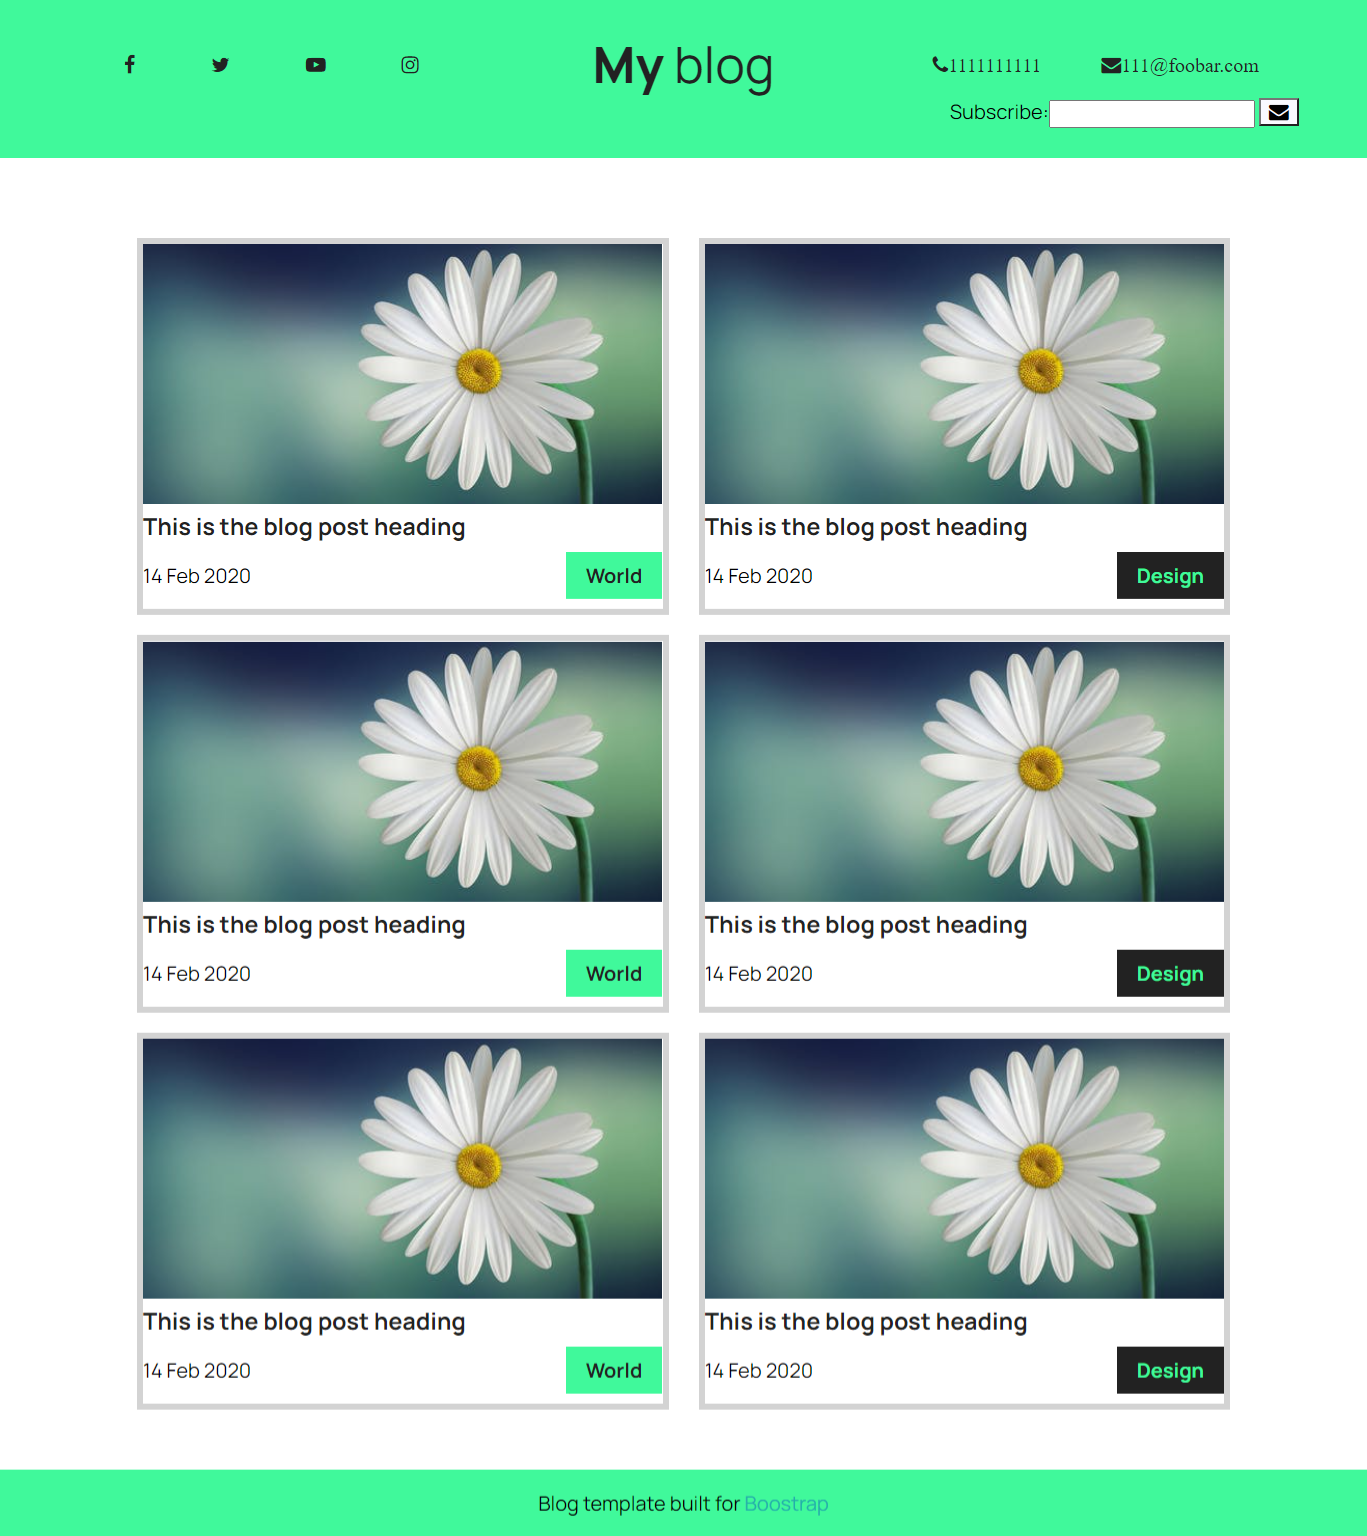
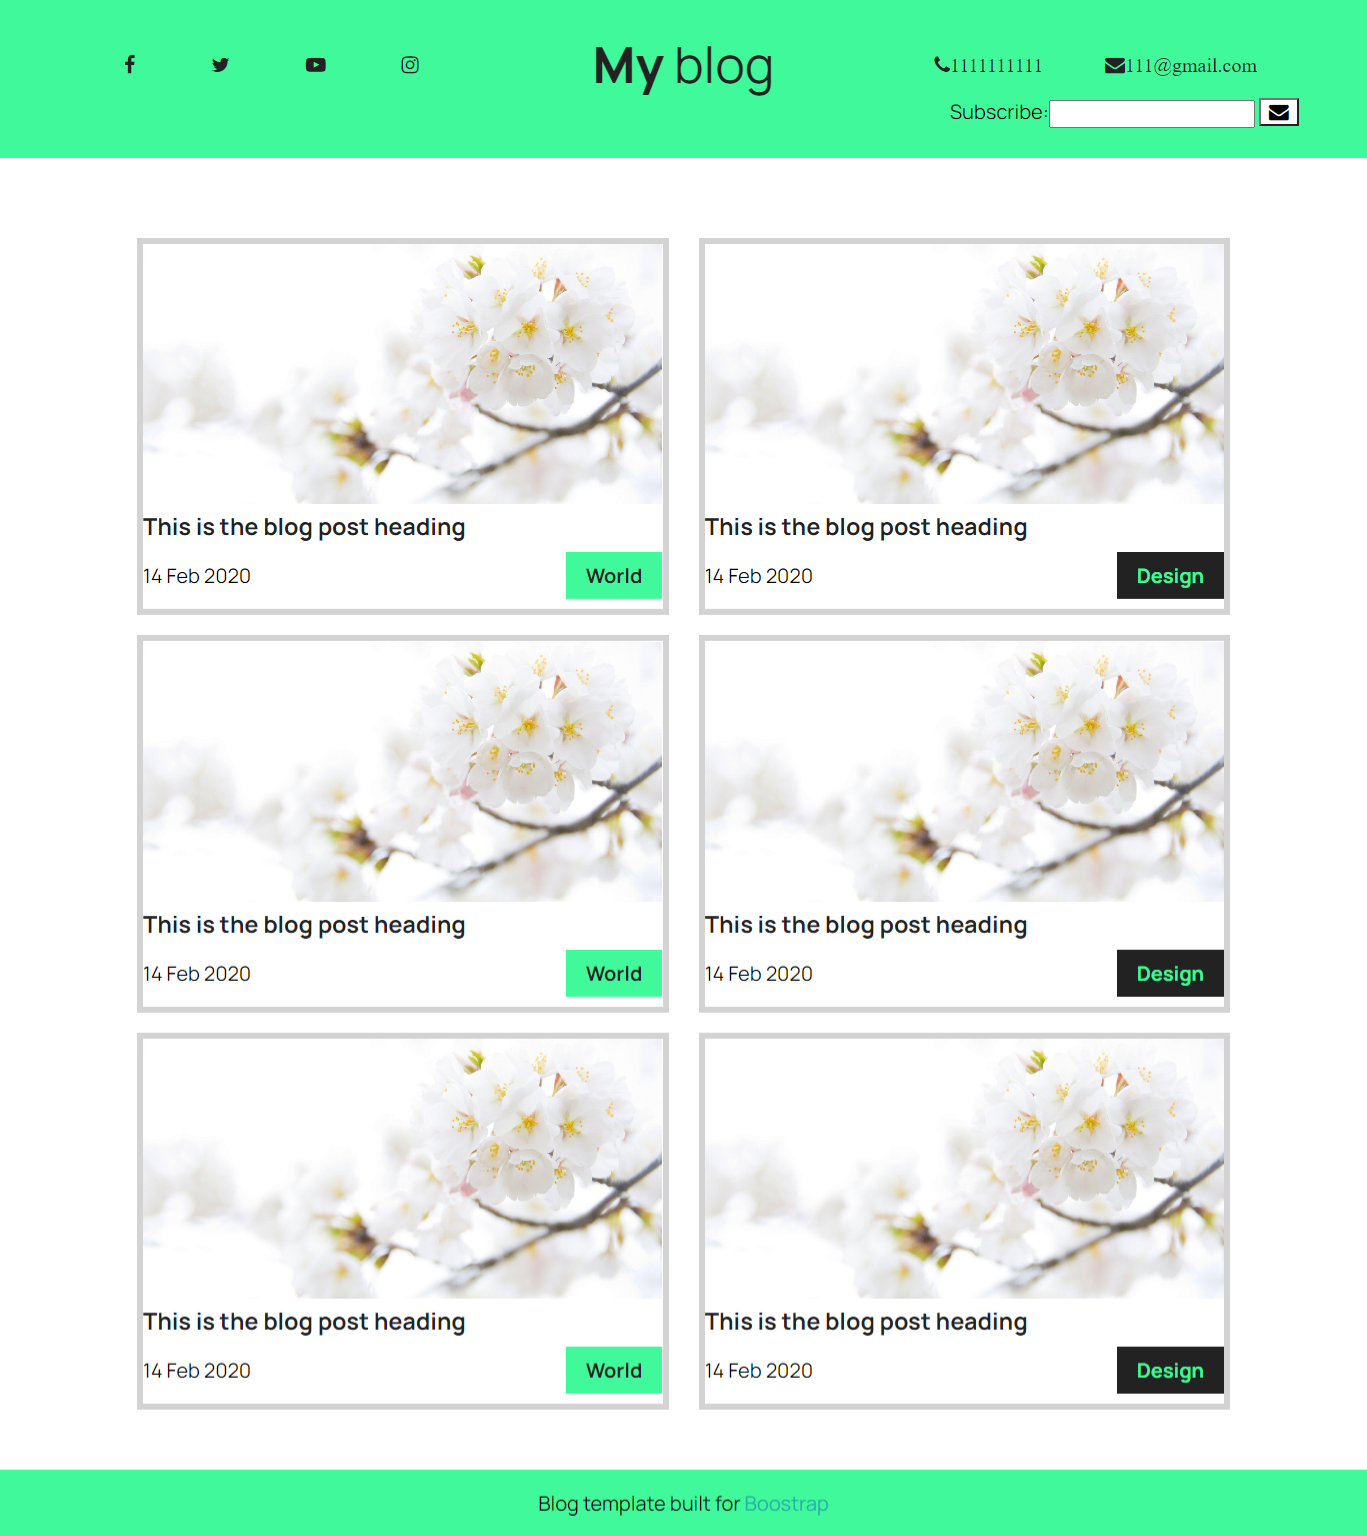
blog project changed background image

diff --git a/CSS_blog_assignment/blog.html b/CSS_blog_assignment/blog.html
@@ -30,7 +30,7 @@
                 <div class="info">
                     <ul class="d-flex justify-content-evenly">
                         <li><a><i class="fa fa-phone">1111111111</i></a></li>
-                        <li><a><i class="fa fa-envelope">111@foobar.com</i></a></li>
+                        <li><a><i class="fa fa-envelope">111@gmail.com</i></a></li>
                     </ul>
                 </div>
             </div>

diff --git a/CSS_blog_assignment/index.html b/CSS_blog_assignment/index.html
@@ -30,7 +30,7 @@
                 <div class="info">
                     <ul class="d-flex justify-content-evenly">
                         <li><a><i class="fa fa-phone">1111111111</i></a></li>
-                        <li><a><i class="fa fa-envelope">111@foobar.com</i></a></li>
+                        <li><a><i class="fa fa-envelope">111@gmail.com</i></a></li>
                     </ul>
                 </div>
             </div>
